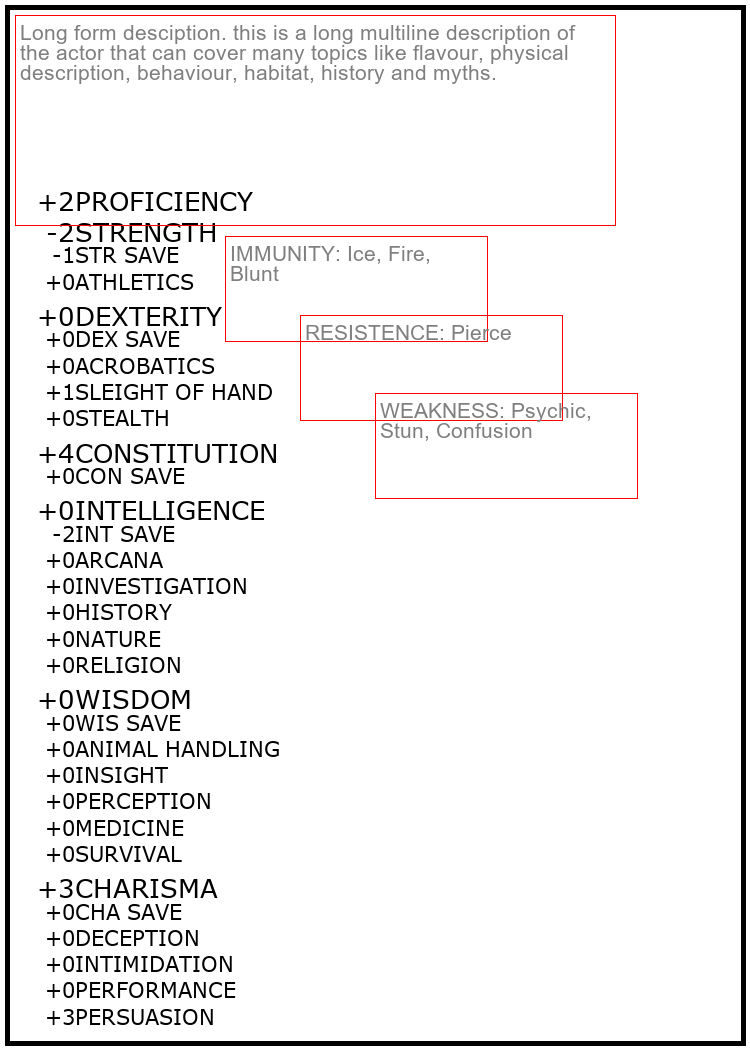
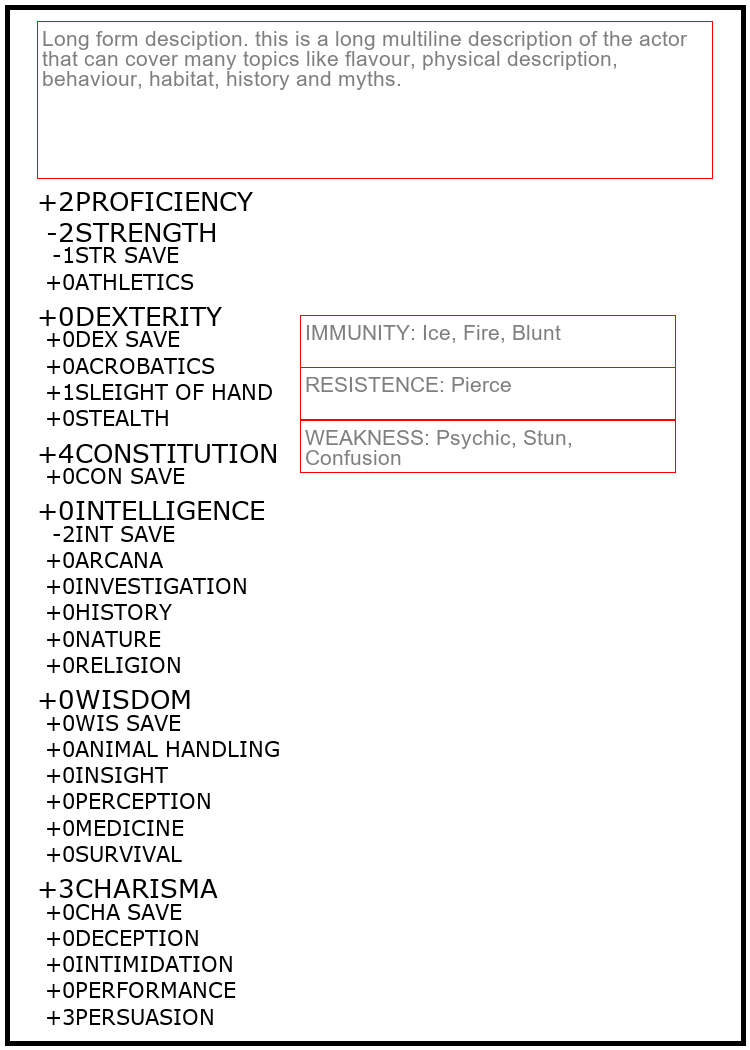
I fixed the text layout
Now i have to add the spellcaster modifiers
Prepare the ability boxes

diff --git a/src/lib/cl_generator.py b/src/lib/cl_generator.py
@@ -206,7 +206,7 @@ class Cl_npc_character_sheet_generator:
             #load text box parameters
             s_label: str = st_text_box.get("s_name", "") 
             s_text: str = st_text_box.get("s_text", "")
-            w_top_left_ppt: int = st_text_box.get("h_top_left_ppt", 0)
+            w_top_left_ppt: int = st_text_box.get("w_top_left_ppt", 0)
             h_top_left_ppt: int = st_text_box.get("h_top_left_ppt", 0)
             w_size_ppt: int = st_text_box.get("w_size_ppt", 0)
             h_size_ppt: int = st_text_box.get("h_size_left_ppt", 0)
@@ -214,7 +214,7 @@ class Cl_npc_character_sheet_generator:
             
             # Convert PPT values to pixels
             w_top_left_px = int(w_size_px * w_top_left_ppt / 1000)
-            h_top_left_px = int(h_size_px * w_top_left_px / 1000)
+            h_top_left_px = int(h_size_px * h_top_left_ppt / 1000)
             w_text_box_px = int(w_size_px * w_size_ppt / 1000)
             h_text_box_px = int( h_size_px * h_size_ppt / 1000)
             h_font_px = int(h_size_px * h_font_ppt / 1000)
